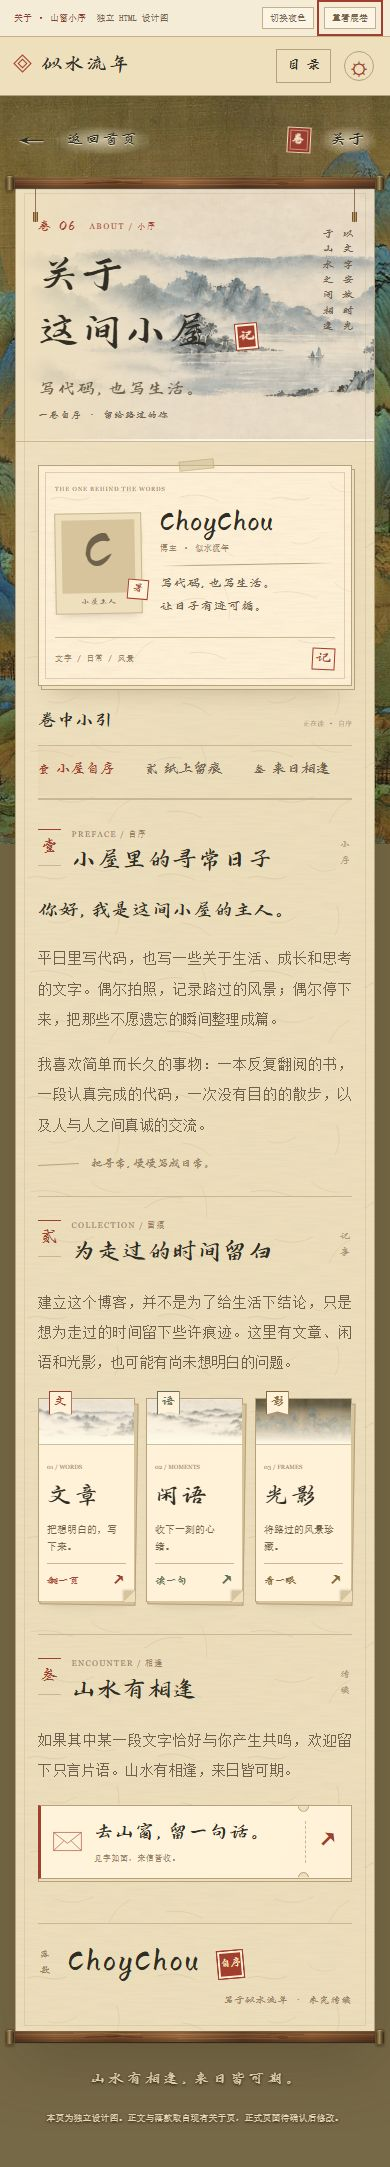
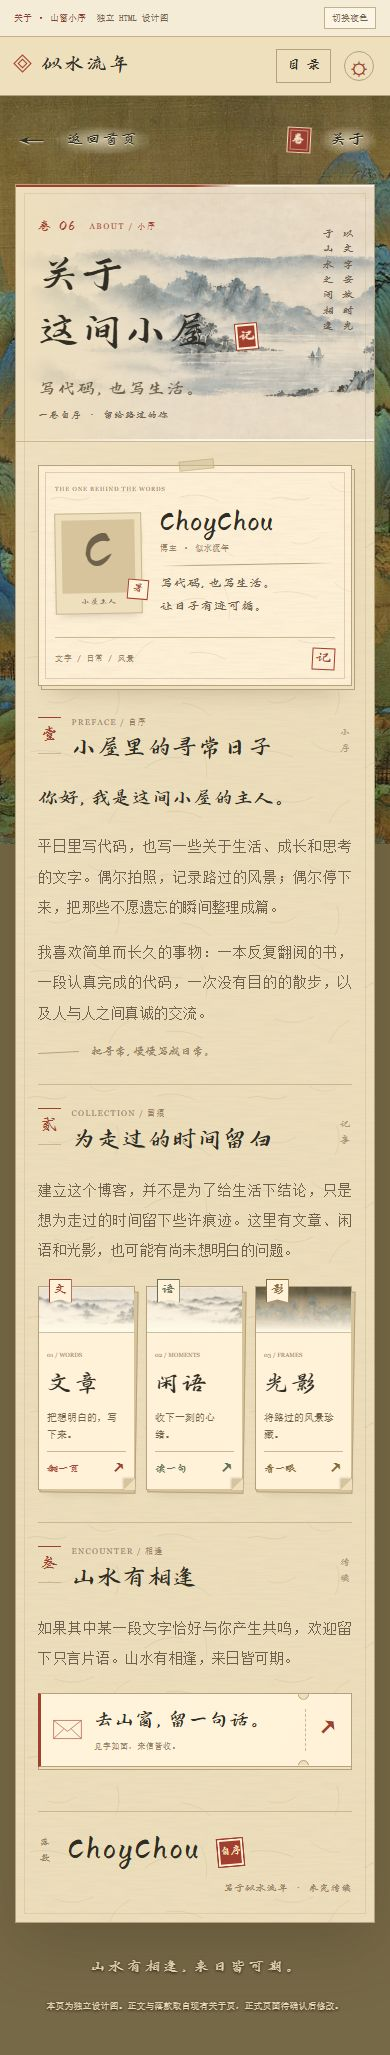
design(about): remove scroll rods and chapter index

Changed region(s): [[0.0308, 0.0, 1.0, 0.9966], [0.0, 0.1246, 0.0615, 0.4049], [0.3692, 0.0, 0.4308, 0.0311]]

diff --git a/effect-preview/about-window-preface-v1.css b/effect-preview/about-window-preface-v1.css
@@ -6,21 +6,17 @@ body::before {content:'';position:fixed;inset:0;background:var(--scene-overlay);
 .preview-tools {position:relative;z-index:10;display:flex;align-items:center;justify-content:space-between;gap:12px;flex-wrap:wrap;padding:8px 24px;color:#746248;background:#f5ecd8;border-bottom:1px solid #c4b18b;font:11px/1.8 var(--song);}.preview-tools b {color:#8d392b;font-weight:400;margin-right:12px;}.preview-tools>div {display:flex;gap:10px;}.preview-tools button {border:1px solid #c4b18b;padding:2px 9px;background:#fcf4e4;font-size:11px;}
 .site-nav {position:relative;z-index:5;display:flex;align-items:center;gap:24px;min-height:65px;padding:0 32px;background:var(--paper);border-bottom:1px solid var(--line);}.brand {font:23px var(--brush);letter-spacing:.14em;white-space:nowrap;}.brand::before {content:'';display:inline-block;width:11px;height:11px;border:1px solid var(--seal);transform:rotate(45deg);box-shadow:inset 0 0 0 2px var(--paper),inset 0 0 0 3px var(--seal);margin-right:13px;}.brand small {font:8px Georgia,serif;color:var(--faint);letter-spacing:.16em;margin-left:9px;}.site-nav nav {display:flex;align-items:center;gap:25px;margin:auto;font:16px var(--brush);letter-spacing:.12em;}.site-nav nav a {position:relative;padding:12px 0;}.site-nav [aria-current=page] {color:var(--seal);}.site-nav [aria-current=page]::after {content:'';position:absolute;bottom:4px;left:0;right:0;height:1px;background:var(--seal);transform:rotate(-4deg);}#nav-theme {height:33px;width:33px;border:1px solid var(--line);border-radius:50%;background:none;font-size:19px;color:var(--seal);}#nav-menu {display:none;border:1px solid var(--line);background:none;padding:7px 10px;font:14px var(--brush);}
 .page {width:calc(100% - 60px);max-width:1100px;margin:27px auto 0;}.back-link {display:flex;justify-content:space-between;align-items:center;margin-bottom:28px;padding:4px 6px;font:18px var(--brush);letter-spacing:.14em;color:var(--ink);text-shadow:0 1px 1px #f7eed6e6,0 0 18px #f7eed6b8;}.back-link>a,.back-link>span {min-height:44px;display:inline-flex;align-items:center;gap:12px;}.back-link>a>span:first-child {font:29px/1 var(--song);}.label {position:relative;padding:3px 7px;isolation:isolate;}.label::before {content:'';position:absolute;inset:0 -3px;z-index:-1;background:radial-gradient(ellipse,#faefd89e,transparent 78%);}.back-link a {transition:color .3s,transform .3s;}.back-link a:hover {color:var(--seal);transform:translateX(-2px);}.nav-seal {font:12px/1 var(--brush);font-style:normal;width:27px;height:29px;display:grid;place-items:center;background:#97392c;color:#f8e8ca;border:1px solid #eee0bf;box-shadow:inset 0 0 0 2px #97392c,inset 0 0 0 3px #eee0bf88;transform:rotate(3deg);}
-.scroll {position:relative;isolation:isolate;filter:drop-shadow(0 22px 32px var(--shadow));}.paper {position:relative;background:linear-gradient(115deg,#fff8e426,transparent 40%),var(--paper) url('../public/bg/guestbook-paper-fibers.svg');border:1px solid var(--line);}.paper::before {content:'';position:absolute;top:0;left:0;width:62%;height:2px;z-index:2;background:linear-gradient(90deg,var(--seal),var(--seal) 80%,transparent);}.paper::after {content:'';position:absolute;inset:8px;border:1px solid var(--fine);opacity:.45;pointer-events:none;}
-.rod {position:absolute;z-index:3;left:-9px;right:-9px;height:14px;border-radius:5px;background:linear-gradient(0deg,#261a135e,transparent 48%,#e7cb7f28 70%,#0004),url('wood-rod-grain.svg') center/100% 100%;box-shadow:0 1px 1px #1a120bc2,inset 0 1px #d9ba7c42;pointer-events:none;}.top-rod {top:-9px;}.bottom-rod {bottom:-9px;}.cap {position:absolute;top:-3px;width:13px;height:20px;border-radius:3px;background:linear-gradient(90deg,#493a24,#a78c59 45%,#6e5936 64%,#31281a);border:1px solid #604c2d;box-shadow:inset 0 1px #cab07e7d,0 2px 2px #1f160b47;}.cap.left {left:-5px;}.cap.right {right:-5px;}.cord {position:absolute;top:12px;width:1px;height:33px;background:#6b4732b0;}.cord.left {left:25px;}.cord.right {right:25px;}.cord::after {content:'';position:absolute;bottom:0;left:-2px;width:5px;height:10px;background:repeating-linear-gradient(90deg,#795434 0 1px,#b6955e 1px 2px);border-radius:0 0 1px 1px;}
+.paper-sheet {position:relative;isolation:isolate;filter:drop-shadow(0 22px 32px var(--shadow));}.paper {position:relative;background:linear-gradient(115deg,#fff8e426,transparent 40%),var(--paper) url('../public/bg/guestbook-paper-fibers.svg');border:1px solid var(--line);}.paper::before {content:'';position:absolute;top:0;left:0;width:62%;height:2px;z-index:2;background:linear-gradient(90deg,var(--seal),var(--seal) 80%,transparent);}.paper::after {content:'';position:absolute;inset:8px;border:1px solid var(--fine);opacity:.45;pointer-events:none;}
 .hero {position:relative;height:290px;overflow:hidden;border-bottom:1px solid var(--fine);}.hero-scene {position:absolute;inset:0;background:linear-gradient(90deg,var(--paper),transparent 44%),url('../public/bg/about-ink-banner.png') center 58%/cover no-repeat;opacity:.8;}.hero-copy {position:relative;z-index:1;padding:46px 49px 24px;}.eyebrow {margin:0;color:var(--faint);font:9px/1.6 Georgia,var(--song);letter-spacing:.2em;}.hero .eyebrow {display:flex;align-items:center;gap:21px;color:var(--seal);}.hero .eyebrow span:first-child {font:13px var(--brush);}.hero h1 {display:flex;align-items:baseline;gap:15px;margin:21px 0 18px;font:58px/1.2 var(--brush);font-weight:400;letter-spacing:.05em;}.seal {display:inline-grid;place-items:center;flex:none;width:31px;min-height:34px;vertical-align:middle;color:var(--card);background:var(--seal);border:1px solid var(--seal);box-shadow:inset 0 0 0 2px var(--card),inset 0 0 0 3px var(--seal);font:19px/1.2 var(--brush);font-style:normal;font-weight:400;letter-spacing:0;transform:rotate(-5deg);}.description {margin:0;font:23px/1.7 var(--brush);letter-spacing:.1em;color:var(--soft);}.hero-inscription {position:absolute;right:48px;top:39px;display:flex;gap:17px;align-items:flex-start;}.hero-inscription>span {writing-mode:vertical-rl;font:15px/2 var(--brush);letter-spacing:.23em;color:var(--soft);}.hero-inscription>i {margin-top:82px;padding:5px;color:var(--seal);border:1px solid var(--seal);font:12px/1.4 var(--brush);font-style:normal;transform:rotate(4deg);}.hero-foot {position:absolute;bottom:21px;left:49px;right:49px;display:flex;align-items:center;justify-content:space-between;color:var(--soft);font:11px var(--brush);letter-spacing:.12em;}.hero-foot span:last-child {font:8px Georgia,serif;letter-spacing:.18em;}
 .layout {display:grid;grid-template-columns:minmax(0,1fr) 226px;gap:46px;padding:36px 49px 25px;}.manuscript {min-width:0;}.chapter {position:relative;scroll-margin-top:25px;padding-bottom:28px;}.chapter+.chapter {padding-top:27px;border-top:1px solid var(--fine);}.chapter-head {display:flex;gap:14px;align-items:center;margin-bottom:20px;}.chapter-number {position:relative;align-self:flex-start;flex:none;padding:6px 3px;color:var(--seal);font:19px var(--brush);border-top:1px solid var(--seal);border-bottom:1px solid var(--fine);}.chapter-head .eyebrow {font-size:8px;letter-spacing:.16em;}.chapter-head h2 {font:29px/1.4 var(--brush);font-weight:400;letter-spacing:.06em;margin:4px 0 0;}.chapter-mark {margin-left:auto;color:var(--faint);font:12px var(--brush);writing-mode:vertical-rl;letter-spacing:.2em;opacity:.75;}.prose {font:16px/2.18 var(--song);letter-spacing:.035em;color:var(--soft);}.prose p {margin:0 0 17px;text-align:justify;}.prose p:last-child {margin-bottom:0;}.prose .greeting {font:23px/1.7 var(--brush);color:var(--ink);letter-spacing:.04em;text-align:left;margin-bottom:18px;}.margin-note {display:flex;align-items:center;gap:12px;margin-top:20px;color:var(--faint);font:13px var(--brush);}.margin-note>span {height:1px;width:41px;background:var(--line);transform:rotate(-3deg);}
-.margin {min-width:0;}.margin-sticky {position:sticky;top:26px;}.owner-card {position:relative;padding:21px 23px 18px;background:var(--card) url('../public/bg/guestbook-paper-fibers.svg');border:1px solid var(--line);box-shadow:3px 4px 0 -1px var(--paper),3px 4px 0 var(--line),0 12px 18px -15px var(--shadow);transform:rotate(.45deg);transition:transform .6s var(--ease),box-shadow .6s;isolation:isolate;}.owner-card::before {content:'';position:absolute;inset:6px;border:1px solid var(--fine);opacity:.6;pointer-events:none;}.owner-card:hover {transform:rotate(0) translateY(-2px);box-shadow:3px 4px 0 -1px var(--paper),3px 4px 0 var(--line),0 18px 22px -15px var(--shadow);}.owner-pin {position:absolute;top:-6px;left:40%;width:35px;height:10px;border:1px solid #a9977360;background:repeating-linear-gradient(90deg,#bfb48918 0 1px,transparent 1px 3px),#d1c3978c;transform:rotate(-6deg);}.owner-card>.eyebrow {font-size:6px;letter-spacing:.14em;text-align:center;margin-bottom:19px;}.portrait {position:relative;width:122px;margin:auto;padding:9px 9px 27px;transform:rotate(-4deg);border:1px solid var(--fine);background:var(--paper);box-shadow:0 6px 10px -6px var(--shadow);transition:transform .6s var(--ease);}.portrait img {position:absolute;top:9px;left:9px;display:block;width:100px;height:100px;object-fit:cover;filter:saturate(.65) sepia(.12);}.portrait-monogram {display:grid;place-items:center;width:100px;height:100px;background:var(--back);color:var(--soft);font:48px var(--brush);}.portrait.loaded .portrait-monogram {visibility:hidden;}.portrait-caption {position:absolute;bottom:5px;left:0;right:0;text-align:center;color:var(--soft);font:11px var(--brush);letter-spacing:.15em;}.portrait-seal {position:absolute;bottom:15px;right:-12px;font:15px var(--brush);border:1px solid var(--seal);color:var(--seal);padding:2px 4px;transform:rotate(6deg);background:var(--card);}.owner-card:hover .portrait {transform:rotate(-1deg);}.owner-card h2 {font:28px var(--brush);font-weight:400;text-align:center;margin:23px 0 3px;letter-spacing:.025em;}.owner-role {font:9px var(--song);letter-spacing:.08em;color:var(--faint);text-align:center;margin:0;}.owner-rule {height:1px;background:linear-gradient(90deg,transparent,var(--line) 20% 80%,transparent);margin:17px 0 15px;transform:rotate(-1deg);}.owner-motto {font:16px/1.8 var(--brush);letter-spacing:.06em;text-align:center;color:var(--soft);margin:0;}.owner-tail {display:flex;align-items:center;justify-content:space-between;padding-top:14px;margin-top:16px;border-top:1px solid var(--fine);font:8px var(--song);letter-spacing:.08em;color:var(--faint);}.owner-tail i {font:15px var(--brush);font-style:normal;border:1px solid var(--seal);color:var(--seal);padding:0 3px;transform:rotate(3deg);}
-.chapter-index {margin-top:32px;padding:0 2px;}.index-head {display:flex;align-items:baseline;justify-content:space-between;gap:8px;padding-bottom:13px;border-bottom:1px solid var(--fine);}.index-head h2 {font:20px var(--brush);font-weight:400;margin:0;}.index-head>span {font:7px var(--song);color:var(--faint);}.chapter-index>a {position:relative;display:flex;gap:13px;align-items:center;min-height:65px;border-bottom:1px solid var(--fine);color:var(--soft);transition:color .3s,background .3s;}.chapter-index>a>i {font:14px var(--brush);font-style:normal;flex:none;}.chapter-index>a>span {font:17px var(--brush);letter-spacing:.05em;}.chapter-index small {display:block;color:var(--faint);font:8px var(--song);letter-spacing:.025em;margin-top:5px;}.chapter-index>a>b {margin-left:auto;font:20px var(--brush);opacity:0;transform:translate(3px,-3px);transition:opacity .3s,transform .3s;}.chapter-index>a[aria-current=location],.chapter-index>a:hover {color:var(--seal);background:linear-gradient(90deg,var(--wash),transparent);}.chapter-index>a[aria-current=location]>b,.chapter-index>a:hover>b {opacity:1;transform:none;}.reading-line {height:2px;overflow:hidden;background:var(--fine);margin-top:13px;}.reading-line>span {display:block;width:0;height:100%;background:var(--seal);transition:width .25s linear;}
+.margin {min-width:0;}.owner-card {position:relative;padding:21px 23px 18px;background:var(--card) url('../public/bg/guestbook-paper-fibers.svg');border:1px solid var(--line);box-shadow:3px 4px 0 -1px var(--paper),3px 4px 0 var(--line),0 12px 18px -15px var(--shadow);transform:rotate(.45deg);transition:transform .6s var(--ease),box-shadow .6s;isolation:isolate;}.owner-card::before {content:'';position:absolute;inset:6px;border:1px solid var(--fine);opacity:.6;pointer-events:none;}.owner-card:hover {transform:rotate(0) translateY(-2px);box-shadow:3px 4px 0 -1px var(--paper),3px 4px 0 var(--line),0 18px 22px -15px var(--shadow);}.owner-pin {position:absolute;top:-6px;left:40%;width:35px;height:10px;border:1px solid #a9977360;background:repeating-linear-gradient(90deg,#bfb48918 0 1px,transparent 1px 3px),#d1c3978c;transform:rotate(-6deg);}.owner-card>.eyebrow {font-size:6px;letter-spacing:.14em;text-align:center;margin-bottom:19px;}.portrait {position:relative;width:122px;margin:auto;padding:9px 9px 27px;transform:rotate(-4deg);border:1px solid var(--fine);background:var(--paper);box-shadow:0 6px 10px -6px var(--shadow);transition:transform .6s var(--ease);}.portrait img {position:absolute;top:9px;left:9px;display:block;width:100px;height:100px;object-fit:cover;filter:saturate(.65) sepia(.12);}.portrait-monogram {display:grid;place-items:center;width:100px;height:100px;background:var(--back);color:var(--soft);font:48px var(--brush);}.portrait.loaded .portrait-monogram {visibility:hidden;}.portrait-caption {position:absolute;bottom:5px;left:0;right:0;text-align:center;color:var(--soft);font:11px var(--brush);letter-spacing:.15em;}.portrait-seal {position:absolute;bottom:15px;right:-12px;font:15px var(--brush);border:1px solid var(--seal);color:var(--seal);padding:2px 4px;transform:rotate(6deg);background:var(--card);}.owner-card:hover .portrait {transform:rotate(-1deg);}.owner-card h2 {font:28px var(--brush);font-weight:400;text-align:center;margin:23px 0 3px;letter-spacing:.025em;}.owner-role {font:9px var(--song);letter-spacing:.08em;color:var(--faint);text-align:center;margin:0;}.owner-rule {height:1px;background:linear-gradient(90deg,transparent,var(--line) 20% 80%,transparent);margin:17px 0 15px;transform:rotate(-1deg);}.owner-motto {font:16px/1.8 var(--brush);letter-spacing:.06em;text-align:center;color:var(--soft);margin:0;}.owner-tail {display:flex;align-items:center;justify-content:space-between;padding-top:14px;margin-top:16px;border-top:1px solid var(--fine);font:8px var(--song);letter-spacing:.08em;color:var(--faint);}.owner-tail i {font:15px var(--brush);font-style:normal;border:1px solid var(--seal);color:var(--seal);padding:0 3px;transform:rotate(3deg);}
 .collections {display:grid;grid-template-columns:repeat(3,minmax(0,1fr));gap:17px;margin:24px 0 8px;}.collection {position:relative;display:block;isolation:isolate;min-width:0;border:1px solid var(--line);background:var(--card);box-shadow:0 9px 12px -10px var(--shadow);transform:perspective(800px) rotateX(var(--rx,0deg)) rotateY(var(--ry,0deg));transition:transform .5s var(--ease),border-color .4s,box-shadow .4s;}.card-backing {position:absolute;inset:4px -3px -4px 2px;z-index:-1;background:var(--back);border:1px solid var(--line);transform:rotate(.9deg);transition:transform .5s;}.card-tab {position:absolute;top:-8px;left:15px;z-index:2;background:var(--card);border:1px solid var(--accent);color:var(--accent);padding:4px 5px;font:16px/1.2 var(--brush);clip-path:polygon(0 0,100% 0,100% 100%,50% calc(100% - 3px),0 100%);transition:background .4s,color .4s;}.card-scene {height:65px;position:relative;overflow:hidden;background-size:cover;background-position:center;filter:sepia(.2) saturate(.6);border-bottom:1px solid var(--fine);}.card-scene::after {content:'';position:absolute;inset:0;background:linear-gradient(0deg,var(--card),transparent 85%);transition:opacity .5s;}.scene-posts {background-image:url('../public/bg/about-ink-banner.png');}.scene-moments {background-image:url('../public/bg/guestbook-ink-banner.webp');}.scene-photos {background-image:url('../public/bg/qianli-bridge.jpg');background-position:center 61%;}.card-copy {position:relative;padding:8px 15px 12px;background:var(--card);}.card-copy small {font:7px Georgia,serif;letter-spacing:.1em;color:var(--faint);}.card-copy h3 {font:29px var(--brush);font-weight:400;margin:7px 0 8px;letter-spacing:.1em;}.card-copy p {font:9px/1.7 var(--song);color:var(--soft);margin:0;}.card-action {display:flex;align-items:center;justify-content:space-between;gap:8px;border-top:1px solid var(--fine);padding-top:8px;margin-top:13px;font:12px var(--brush);color:var(--accent);}.card-action b {font:18px var(--brush);font-weight:400;transition:transform .4s;}.card-fold {position:absolute;right:-1px;bottom:-1px;z-index:2;width:14px;height:14px;background:linear-gradient(135deg,var(--back) 47%,var(--paper) 50%);filter:drop-shadow(-1px -1px 1px var(--shadow));transition:width .5s,height .5s;}.collection:hover,.collection:focus-visible {transform:perspective(800px) translateY(-4px) rotateX(var(--rx,0deg)) rotateY(var(--ry,0deg));border-color:var(--accent);box-shadow:0 16px 18px -12px var(--shadow);}.collection:hover .card-backing,.collection:focus-visible .card-backing {transform:rotate(1.8deg) translateY(1px);}.collection:hover .card-tab,.collection:focus-visible .card-tab {background:var(--accent);color:var(--card);}.collection:hover .card-fold,.collection:focus-visible .card-fold {width:25px;height:25px;}.collection:hover .card-action b,.collection:focus-visible .card-action b {transform:translate(2px,-2px);}.collection:hover .card-scene::after {opacity:.65;}
 .meeting {padding-bottom:0;}.invitation {position:relative;display:flex;align-items:center;gap:17px;padding:19px 20px;margin-top:23px;border:1px solid var(--line);border-left:3px solid var(--seal);background:linear-gradient(120deg,#fff8e42b,transparent),var(--card);box-shadow:0 3px 0 -1px var(--paper),0 3px 0 var(--line);transition:transform .4s,box-shadow .4s;}.invitation::before,.invitation::after {content:'';position:absolute;right:57px;width:9px;height:9px;background:var(--paper);border:1px solid var(--line);border-radius:50%;}.invitation::before {top:-5px;clip-path:inset(50% 0 0);}.invitation::after {bottom:-5px;clip-path:inset(0 0 50%);}.invitation>svg {width:39px;flex:none;height:29px;fill:none;stroke:var(--seal);stroke-width:1;overflow:visible;}.flap {transform-origin:center top;transition:transform .55s var(--ease);}.invitation b {font:23px var(--brush);font-weight:400;letter-spacing:.045em;}.invitation small {display:block;font:9px var(--song);color:var(--faint);letter-spacing:.08em;margin-top:7px;}.invitation-arrow {align-self:stretch;display:grid;place-items:center;margin-left:auto;padding-left:17px;border-left:1px dashed var(--fine);color:var(--seal);font:24px var(--brush);transition:transform .4s;}.invitation:hover,.invitation:focus-visible {transform:translateY(-2px);box-shadow:0 3px 0 -1px var(--paper),0 3px 0 var(--line),0 13px 18px -15px var(--shadow);}.invitation:hover .flap,.invitation:focus-visible .flap {transform:scaleY(-.7);}.invitation:hover .invitation-arrow {transform:translate(2px,-2px);}
 .colophon {display:flex;align-items:center;justify-content:space-between;gap:20px;margin:0 49px;padding:25px 0 29px;border-top:1px solid var(--fine);color:var(--faint);}.colophon>div {display:flex;align-items:center;gap:16px;}.colophon-label {font:10px var(--brush);writing-mode:vertical-rl;letter-spacing:.2em;}.signature {font:30px var(--brush);letter-spacing:.07em;color:var(--ink);}.colophon .seal {width:27px;min-height:29px;font-size:11px;}.colophon>span {font:12px var(--brush);letter-spacing:.1em;}.site-footer {max-width:1100px;margin:40px auto 38px;text-align:center;padding:0 24px;color:#eadbb7;text-shadow:0 1px 3px #211607;}.site-footer p {font:17px var(--brush);letter-spacing:.24em;margin:0 0 14px;}.site-footer small {font:10px/1.8 var(--song);}.noscript-note {text-align:center;color:var(--soft);background:var(--card);padding:10px;}
-@keyframes paper-open {from{clip-path:inset(0 0 99% 0)}to{clip-path:inset(0)}}@keyframes rod-descend {from{transform:translateY(calc(-1 * var(--scroll-height,1300px) + 12px))}to{transform:none}}@keyframes ink-appear {from{opacity:0;transform:translateY(7px)}to{opacity:1;transform:none}}@keyframes stamp-in {from{opacity:0;transform:scale(1.3) rotate(-12deg)}70%{opacity:1;transform:scale(.96) rotate(-5deg)}to{transform:rotate(-5deg)}}
-.motion.opening .paper {animation:paper-open 1.3s var(--ease) both;}.motion.opening .bottom-rod {animation:rod-descend 1.3s var(--ease) both;}.motion.opening .hero-copy {animation:ink-appear .8s .35s var(--ease) both;}.motion.opening .hero .seal {animation:stamp-in .7s .7s var(--ease) both;}.motion.opening .owner-card {animation:ink-appear .7s .85s var(--ease) both;}.motion .chapter.arriving .chapter-head {animation:ink-appear .65s var(--ease) both;}.motion .chapter.arriving .prose {animation:ink-appear .8s .12s var(--ease) both;}.motion .chapter.arriving .collection {animation:ink-appear .7s var(--ease) both;}.motion .chapter.arriving .collection:nth-child(2) {animation-delay:.1s;}.motion .chapter.arriving .collection:nth-child(3) {animation-delay:.2s;}
 :root[data-theme=dark] .hero-scene {opacity:.42;filter:brightness(.9) sepia(.2);}:root[data-theme=dark] .back-link {text-shadow:none;}:root[data-theme=dark] .label::before {background:radial-gradient(ellipse,#4036238c,transparent 78%);}:root[data-theme=dark] .collection {--accent:#c4ad83!important;}:root[data-theme=dark] .portrait img {filter:saturate(.6) brightness(.85);}
 @media(min-width:1500px) {.hero h1 {font-size:62px;}}
 @media(max-width:1000px) {.site-nav nav {gap:16px;}.brand small {display:none;}.site-nav {padding-inline:24px;gap:17px;}.layout {gap:31px;padding:31px 36px 25px;grid-template-columns:minmax(0,1fr) 205px;}.owner-card {padding:20px 18px 17px;}.hero-copy {padding-inline:36px;}.hero h1 {font-size:50px;}.hero-inscription {right:34px;}.hero-foot {left:36px;right:36px;}.collections {gap:13px;}.card-copy {padding-inline:11px;}.card-copy p {font-size:8px;}.chapter-head h2 {font-size:26px;}.colophon {margin-inline:36px;}}
-@media(max-width:760px) {.site-nav {justify-content:space-between;min-height:59px;padding-inline:21px;}.brand {font-size:22px;}.site-nav nav {display:none;position:absolute;top:100%;left:0;right:0;padding:15px 24px;background:var(--paper);border-bottom:1px solid var(--line);grid-template-columns:repeat(4,1fr);text-align:center;gap:7px;}.site-nav nav[data-open] {display:grid;}#nav-menu {display:block;margin-left:auto;}#nav-theme {width:30px;height:30px;}.page {width:calc(100% - 44px);margin-top:21px;}.back-link {font-size:16px;margin-bottom:22px;padding-inline:2px;}.hero {height:260px;}.hero h1 {font-size:44px;gap:10px;letter-spacing:.025em;}.hero-copy {padding:40px 28px 22px;}.hero-inscription {right:25px;top:35px;gap:9px;}.hero-inscription>span {font-size:12px;}.hero-inscription>i {font-size:10px;margin-top:82px;}.description {font-size:20px;}.hero-foot {left:28px;right:28px;}.hero-foot span:last-child {font-size:6px;letter-spacing:.1em;}.layout {display:flex;flex-direction:column;gap:27px;padding:30px 28px 25px;}.margin {order:-1;}.margin-sticky {position:static;display:grid;grid-template-columns:1fr 1fr;gap:25px;align-items:start;}.owner-card {padding:18px 17px 14px;}.owner-card>.eyebrow {margin-bottom:13px;}.portrait {width:99px;padding:7px 7px 22px;}.portrait img {top:7px;left:7px;width:83px;height:83px;}.portrait-monogram {width:83px;height:83px;}.portrait-caption {font-size:9px;}.owner-card h2 {font-size:25px;margin-top:16px;}.owner-motto {font-size:14px;}.owner-rule {margin:13px 0;}.owner-tail {margin-top:12px;padding-top:11px;}.chapter-index {margin:0;padding-top:5px;}.index-head {flex-direction:column;gap:5px;}.chapter-index>a {min-height:68px;}.colophon {margin-inline:28px;}.prose {font-size:16px;}.collections {gap:17px;}.card-copy p {font-size:9px;}}
-@media(max-width:520px) {.preview-tools {padding:7px 14px;font-size:9px;gap:5px;}.preview-tools button {font-size:9px;padding:2px 7px;}.preview-tools b {margin-right:6px;}.page {width:calc(100% - 30px);margin-top:18px;}.site-nav {gap:13px;padding-inline:16px;}.brand {font-size:20px;}.back-link {margin-bottom:18px;}.nav-seal {width:24px;height:26px;}.rod {left:-5px;right:-5px;height:11px;}.top-rod {top:-7px;}.bottom-rod {bottom:-7px;}.cap {width:10px;height:16px;top:-2px;}.hero {height:257px;}.hero-copy {padding:34px 22px 20px;}.hero h1 {display:block;max-width:230px;font-size:43px;line-height:1.3;margin:16px 0 12px;letter-spacing:.03em;}.hero .title-tail {display:block;white-space:nowrap;}.hero h1 .seal {width:23px;min-height:27px;font-size:15px;vertical-align:5px;margin-left:5px;}.hero .eyebrow {gap:13px;font-size:8px;}.hero-inscription {right:17px;top:43px;gap:8px;}.hero-inscription>span {font-size:11px;line-height:1.8;letter-spacing:.12em;}.hero-inscription>i {display:none;}.description {font-size:18px;}.hero-foot {left:22px;right:22px;bottom:18px;font-size:10px;}.hero-foot span:last-child {display:none;}.layout {padding:25px 22px 20px;gap:29px;}.margin-sticky {grid-template-columns:minmax(0,1fr);gap:22px;}.owner-card {display:grid;grid-template-columns:91px minmax(0,1fr);column-gap:14px;padding:18px 16px 15px;transform:none;}.owner-card>.eyebrow {grid-column:1/-1;text-align:left;font-size:6px;margin-bottom:14px;}.portrait {grid-column:1;grid-row:2/6;width:87px;margin:0;padding:6px 6px 20px;align-self:center;}.portrait img {top:6px;left:6px;width:73px;height:73px;}.portrait-monogram {width:73px;height:73px;}.portrait-caption {font-size:8px;}.portrait-seal {right:-7px;font-size:11px;bottom:13px;}.owner-card h2 {grid-column:2;margin:1px 0 3px;text-align:left;font-size:25px;}.owner-role {grid-column:2;text-align:left;font-size:8px;}.owner-rule {grid-column:2;margin:11px 0 8px;}.owner-motto {grid-column:2;text-align:left;font-size:13px;line-height:1.8;}.owner-tail {grid-column:1/-1;margin-top:17px;padding-top:10px;}.owner-pin {left:45%;}.chapter-index {display:grid;grid-template-columns:repeat(3,minmax(0,1fr));column-gap:10px;padding:0;margin:0;}.index-head {grid-column:1/-1;flex-direction:row;padding-bottom:10px;}.index-head h2 {font-size:19px;}.chapter-index>a {gap:6px;min-height:49px;border-bottom:none;}.chapter-index>a>i {font-size:12px;}.chapter-index>a>span {font-size:15px;letter-spacing:0;}.chapter-index small,.chapter-index>a>b {display:none;}.reading-line {grid-column:1/-1;margin-top:3px;}.chapter-head {gap:11px;margin-bottom:15px;}.chapter-head h2 {font-size:25px;letter-spacing:.03em;}.chapter-number {font-size:17px;}.chapter-mark {font-size:10px;}.prose {font-size:14px;line-height:2.16;letter-spacing:.035em;}.prose .greeting {font-size:20px;margin-bottom:14px;}.prose p {margin-bottom:15px;}.chapter {padding-bottom:24px;}.chapter+.chapter {padding-top:23px;}.margin-note {font-size:12px;margin-top:17px;}.collections {gap:11px;margin-top:21px;}.card-tab {left:10px;font-size:13px;padding:3px 4px;}.card-scene {height:46px;}.card-copy {padding:7px 8px 9px;}.card-copy small {font-size:6px;letter-spacing:.015em;}.card-copy h3 {font-size:25px;margin:5px 0 7px;}.card-copy p {font-size:10px;line-height:1.65;min-height:33px;}.card-action {font-size:11px;margin-top:9px;padding-top:7px;gap:4px;}.card-action b {font-size:15px;}.card-fold {width:11px;height:11px;}.invitation {padding:15px 12px;gap:12px;margin-top:19px;}.invitation>svg {width:29px;height:23px;}.invitation b {font-size:20px;}.invitation small {font-size:8px;}.invitation-arrow {padding-left:11px;font-size:22px;}.invitation::before,.invitation::after {right:42px;}.colophon {margin-inline:22px;padding:23px 0 26px;flex-wrap:wrap;gap:12px;}.signature {font-size:27px;}.colophon>span {font-size:10px;margin-left:auto;}.site-footer {margin-top:35px;}.site-footer p {font-size:15px;}.site-footer small {font-size:9px;}}
+@media(max-width:760px) {.site-nav {justify-content:space-between;min-height:59px;padding-inline:21px;}.brand {font-size:22px;}.site-nav nav {display:none;position:absolute;top:100%;left:0;right:0;padding:15px 24px;background:var(--paper);border-bottom:1px solid var(--line);grid-template-columns:repeat(4,1fr);text-align:center;gap:7px;}.site-nav nav[data-open] {display:grid;}#nav-menu {display:block;margin-left:auto;}#nav-theme {width:30px;height:30px;}.page {width:calc(100% - 44px);margin-top:21px;}.back-link {font-size:16px;margin-bottom:22px;padding-inline:2px;}.hero {height:260px;}.hero h1 {font-size:44px;gap:10px;letter-spacing:.025em;}.hero-copy {padding:40px 28px 22px;}.hero-inscription {right:25px;top:35px;gap:9px;}.hero-inscription>span {font-size:12px;}.hero-inscription>i {font-size:10px;margin-top:82px;}.description {font-size:20px;}.hero-foot {left:28px;right:28px;}.hero-foot span:last-child {font-size:6px;letter-spacing:.1em;}.layout {display:flex;flex-direction:column;gap:27px;padding:30px 28px 25px;}.margin {order:-1;}.owner-card {padding:18px 17px 14px;}.owner-card>.eyebrow {margin-bottom:13px;}.portrait {width:99px;padding:7px 7px 22px;}.portrait img {top:7px;left:7px;width:83px;height:83px;}.portrait-monogram {width:83px;height:83px;}.portrait-caption {font-size:9px;}.owner-card h2 {font-size:25px;margin-top:16px;}.owner-motto {font-size:14px;}.owner-rule {margin:13px 0;}.owner-tail {margin-top:12px;padding-top:11px;}.colophon {margin-inline:28px;}.prose {font-size:16px;}.collections {gap:17px;}.card-copy p {font-size:9px;}.margin-content {max-width:420px;margin-inline:auto;}.owner-card {display:grid;grid-template-columns:91px minmax(0,1fr);column-gap:14px;padding:18px 16px 15px;transform:none;}.owner-card>.eyebrow {grid-column:1/-1;text-align:left;font-size:6px;margin-bottom:14px;}.portrait {grid-column:1;grid-row:2/6;width:87px;margin:0;padding:6px 6px 20px;align-self:center;}.portrait img {top:6px;left:6px;width:73px;height:73px;}.portrait-monogram {width:73px;height:73px;}.portrait-caption {font-size:8px;}.portrait-seal {right:-7px;font-size:11px;bottom:13px;}.owner-card h2 {grid-column:2;margin:1px 0 3px;text-align:left;font-size:25px;}.owner-role {grid-column:2;text-align:left;font-size:8px;}.owner-rule {grid-column:2;margin:11px 0 8px;}.owner-motto {grid-column:2;text-align:left;font-size:13px;line-height:1.8;}.owner-tail {grid-column:1/-1;margin-top:17px;padding-top:10px;}.owner-pin {left:45%;}}
+@media(max-width:520px) {.preview-tools {padding:7px 14px;font-size:9px;gap:5px;}.preview-tools button {font-size:9px;padding:2px 7px;}.preview-tools b {margin-right:6px;}.page {width:calc(100% - 30px);margin-top:18px;}.site-nav {gap:13px;padding-inline:16px;}.brand {font-size:20px;}.back-link {margin-bottom:18px;}.nav-seal {width:24px;height:26px;}.hero {height:257px;}.hero-copy {padding:34px 22px 20px;}.hero h1 {display:block;max-width:230px;font-size:43px;line-height:1.3;margin:16px 0 12px;letter-spacing:.03em;}.hero .title-tail {display:block;white-space:nowrap;}.hero h1 .seal {width:23px;min-height:27px;font-size:15px;vertical-align:5px;margin-left:5px;}.hero .eyebrow {gap:13px;font-size:8px;}.hero-inscription {right:17px;top:43px;gap:8px;}.hero-inscription>span {font-size:11px;line-height:1.8;letter-spacing:.12em;}.hero-inscription>i {display:none;}.description {font-size:18px;}.hero-foot {left:22px;right:22px;bottom:18px;font-size:10px;}.hero-foot span:last-child {display:none;}.layout {padding:25px 22px 20px;gap:29px;}.chapter-head {gap:11px;margin-bottom:15px;}.chapter-head h2 {font-size:25px;letter-spacing:.03em;}.chapter-number {font-size:17px;}.chapter-mark {font-size:10px;}.prose {font-size:14px;line-height:2.16;letter-spacing:.035em;}.prose .greeting {font-size:20px;margin-bottom:14px;}.prose p {margin-bottom:15px;}.chapter {padding-bottom:24px;}.chapter+.chapter {padding-top:23px;}.margin-note {font-size:12px;margin-top:17px;}.collections {gap:11px;margin-top:21px;}.card-tab {left:10px;font-size:13px;padding:3px 4px;}.card-scene {height:46px;}.card-copy {padding:7px 8px 9px;}.card-copy small {font-size:6px;letter-spacing:.015em;}.card-copy h3 {font-size:25px;margin:5px 0 7px;}.card-copy p {font-size:10px;line-height:1.65;min-height:33px;}.card-action {font-size:11px;margin-top:9px;padding-top:7px;gap:4px;}.card-action b {font-size:15px;}.card-fold {width:11px;height:11px;}.invitation {padding:15px 12px;gap:12px;margin-top:19px;}.invitation>svg {width:29px;height:23px;}.invitation b {font-size:20px;}.invitation small {font-size:8px;}.invitation-arrow {padding-left:11px;font-size:22px;}.invitation::before,.invitation::after {right:42px;}.colophon {margin-inline:22px;padding:23px 0 26px;flex-wrap:wrap;gap:12px;}.signature {font-size:27px;}.colophon>span {font-size:10px;margin-left:auto;}.site-footer {margin-top:35px;}.site-footer p {font-size:15px;}.site-footer small {font-size:9px;}}
 
 @media(prefers-reduced-motion:reduce) {html {scroll-behavior:auto;}.collection {transform:none;}*,*::before,*::after {animation:none!important;transition:none!important;}.collection:hover,.collection:focus-visible,.owner-card:hover,.invitation:hover,.invitation:focus-visible {transform:none;}.collection:hover .card-backing,.collection:focus-visible .card-backing {transform:rotate(.9deg);}}

diff --git a/effect-preview/about-window-preface-v1.html b/effect-preview/about-window-preface-v1.html
@@ -9,7 +9,7 @@
   <script src="about-window-preface-v1.js" defer></script>
 </head>
 <body>
-  <div class="preview-tools"><span><b>关于 · 山窗小序</b> 独立 HTML 设计图</span><div><button type="button" id="theme-button" aria-pressed="false">切换夜色</button><button type="button" id="replay-button">重看展卷</button></div></div>
+  <div class="preview-tools"><span><b>关于 · 山窗小序</b> 独立 HTML 设计图</span><div><button type="button" id="theme-button" aria-pressed="false">切换夜色</button></div></div>
   <header class="site-nav">
     <a class="brand" href="http://127.0.0.1:3015/">似水流年 <small>JOURNAL</small></a>
     <nav id="site-links" aria-label="站点导航"><a href="http://127.0.0.1:3015/">首页</a><a href="http://127.0.0.1:3015/posts">文章</a><a href="http://127.0.0.1:3015/moments">闲语</a><a href="http://127.0.0.1:3015/album">光影</a><a href="http://127.0.0.1:3015/timeline">时间轴</a><a href="http://127.0.0.1:3015/guestbook">留言</a><a href="#top" aria-current="page">关于</a></nav>
@@ -17,8 +17,7 @@
   </header>
   <div class="page" id="top">
     <nav class="back-link" aria-label="关于页导航"><a href="http://127.0.0.1:3015/"><span aria-hidden="true">←</span><span class="label">返回首页</span></a><span><i class="nav-seal" aria-hidden="true">卷</i><span class="label">关于</span></span></nav>
-    <main class="scroll" aria-label="关于这间小屋">
-      <span class="rod top-rod" aria-hidden="true"><i class="cap left"></i><i class="cap right"></i><i class="cord left"></i><i class="cord right"></i></span>
+    <main class="paper-sheet" aria-label="关于这间小屋">
       <div class="paper">
         <header class="hero">
           <div class="hero-scene" aria-hidden="true"></div>
@@ -48,19 +47,17 @@
               <a class="invitation" href="http://127.0.0.1:3015/guestbook"><svg viewBox="0 0 48 32" aria-hidden="true"><path d="M1 1H47V31H1Z M1 31L18 15M47 31L30 15"></path><path class="flap" d="M1 1L24 19L47 1"></path></svg><span><b>去山窗，留一句话。</b><small>见字如面，来信皆收。</small></span><span class="invitation-arrow" aria-hidden="true">↗</span></a>
             </section>
           </div>
-          <aside class="margin" aria-label="博主落款与卷中索引">
-            <div class="margin-sticky">
+          <aside class="margin" aria-label="博主落款">
+            <div class="margin-content">
               <div class="owner-card"><span class="owner-pin" aria-hidden="true"></span><p class="eyebrow">THE ONE BEHIND THE WORDS</p><div class="portrait"><span class="portrait-monogram" aria-hidden="true">C</span><img src="https://arpkshixrtqnsowrwbeh.supabase.co/storage/v1/object/public/avatars/admin/1785591615465-sihuy9.png" alt="博主头像" width="100" height="100" loading="lazy" referrerpolicy="no-referrer"><span class="portrait-caption">小屋主人</span><span class="portrait-seal" aria-hidden="true">署</span></div><h2>ChoyChou</h2><p class="owner-role">博主 · 似水流年</p><div class="owner-rule" aria-hidden="true"></div><p class="owner-motto">写代码，也写生活。<br>让日子有迹可循。</p><div class="owner-tail"><span>文字 / 日常 / 风景</span><i aria-hidden="true">记</i></div></div>
-              <nav class="chapter-index" aria-label="卷中索引"><div class="index-head"><h2>卷中小引</h2><span id="reading-status" aria-live="off">正在读 · 自序</span></div><a href="#preface" aria-current="location"><i>壹</i><span>小屋自序<small>寻常日子，认真过。</small></span><b aria-hidden="true">↙</b></a><a href="#traces"><i>贰</i><span>纸上留痕<small>文字、心绪与风景。</small></span><b aria-hidden="true">↙</b></a><a href="#encounter"><i>叁</i><span>来日相逢<small>这一卷，仍在续写。</small></span><b aria-hidden="true">↙</b></a><div class="reading-line" aria-hidden="true"><span id="reading-progress"></span></div></nav>
             </div>
           </aside>
         </div>
         <footer class="colophon"><div><span class="colophon-label">落款</span><span class="signature">ChoyChou</span><i class="seal" aria-hidden="true">自序</i></div><span>写于似水流年 · 未完待续</span></footer>
       </div>
-      <span class="rod bottom-rod" aria-hidden="true"><i class="cap left"></i><i class="cap right"></i></span>
     </main>
   </div>
   <footer class="site-footer"><p>山水有相逢，来日皆可期。</p><small>本页为独立设计图。正文与落款取自现有关于页，正式页面待确认后修改。</small></footer>
-  <noscript><p class="noscript-note">静态设计图仍可阅读，章节与页面入口可直接使用。</p></noscript>
+  <noscript><p class="noscript-note">静态设计图仍可阅读，页面入口可直接使用。</p></noscript>
 </body>
 </html>

diff --git a/effect-preview/about-window-preface-v1.js b/effect-preview/about-window-preface-v1.js
@@ -1,22 +1,6 @@
 (() => {
   const root = document.documentElement;
-  const scroll = document.querySelector('.scroll');
   const reduce = window.matchMedia('(prefers-reduced-motion: reduce)');
-  const chapters = [...document.querySelectorAll('.chapter')];
-  const links = [...document.querySelectorAll('.chapter-index>a')];
-  const headings = chapters.map(section => section.querySelector('h2'));
-  const chapterNames = ['自序', '留痕', '相逢'];
-  let openingTimer = 0;
-  function endOpening() { scroll.classList.remove('opening'); window.clearTimeout(openingTimer); }
-  function replay() {
-    endOpening();
-    scroll.style.setProperty('--scroll-height', `${scroll.offsetHeight}px`);
-    if (reduce.matches) return;
-    scroll.classList.add('motion');
-    void scroll.offsetHeight;
-    scroll.classList.add('opening');
-    openingTimer = window.setTimeout(endOpening, 1700);
-  }
   function themeToggle() {
     const dark = root.dataset.theme !== 'dark';
     root.dataset.theme = dark ? 'dark' : 'light';
@@ -29,10 +13,6 @@
   }
   document.getElementById('theme-button').addEventListener('click', themeToggle);
   document.getElementById('nav-theme').addEventListener('click', themeToggle);
-  document.getElementById('replay-button').addEventListener('click', () => {
-    window.scrollTo({top:0, behavior:'instant'});
-    replay();
-  });
   function closeMenu() {
     document.getElementById('site-links').removeAttribute('data-open');
     const button = document.getElementById('nav-menu');
@@ -46,58 +26,11 @@
     document.getElementById('site-links').toggleAttribute('data-open', open);
   });
   document.addEventListener('keydown', event => {
-    endOpening();
     if (event.key === 'Escape' && document.getElementById('site-links').hasAttribute('data-open')) {
       closeMenu();document.getElementById('nav-menu').focus();
     }
   });
-  document.addEventListener('pointerdown', endOpening, {passive:true});
   document.getElementById('site-links').addEventListener('click', closeMenu);
-  links.forEach((link,index) => link.addEventListener('click', event => {
-    event.preventDefault();endOpening();
-    history.replaceState(null,'',link.getAttribute('href'));
-    headings[index].focus({preventScroll:true});
-    chapters[index].scrollIntoView({block:'start',behavior:reduce.matches?'instant':'smooth'});
-  }));
-  const progress = document.getElementById('reading-progress');
-  let queued = false;
-  function readPosition() {
-    queued = false;
-    const rect = document.querySelector('.manuscript').getBoundingClientRect();
-    const range = Math.max(1,rect.height - innerHeight * .35);
-    const fraction = Math.max(0,Math.min(1,(innerHeight * .25 - rect.top)/range));
-    progress.style.width = `${fraction * 100}%`;
-    let index = 0;
-    chapters.forEach((section,i) => {if (section.getBoundingClientRect().top < innerHeight * .45) index = i;});
-    links.forEach((link,i) => {if (i===index) link.setAttribute('aria-current','location');else link.removeAttribute('aria-current');});
-    document.getElementById('reading-status').textContent = `正在读 · ${chapterNames[index]}`;
-  }
-  window.addEventListener('scroll', () => {
-    if (!queued) {queued=true;requestAnimationFrame(readPosition);}
-  }, {passive:true});
-  window.addEventListener('resize', () => {endOpening();readPosition();});
-  window.addEventListener('wheel',endOpening,{passive:true});
-  window.addEventListener('touchmove',endOpening,{passive:true});
-  reduce.addEventListener('change',()=>{
-    if(reduce.matches) {endOpening();scroll.classList.remove('motion');}
-    else scroll.classList.add('motion');
-  });
-  if ('IntersectionObserver' in window) {
-    const observer = new IntersectionObserver(entries => {
-      entries.forEach(entry => {
-        if (!entry.isIntersecting) return;
-        const section = entry.target;
-        if(!reduce.matches) section.classList.add('arriving');
-        observer.unobserve(section);
-      });
-    }, {threshold:.13});
-    chapters.forEach(section=>{
-      observer.observe(section);
-      section.addEventListener('animationend',event=>{
-        if(event.target.matches('.prose')) section.classList.remove('arriving');
-      });
-    });
-  }
   document.querySelectorAll('.collection').forEach(card=>{
     card.addEventListener('pointermove',event=>{
       if(reduce.matches || event.pointerType==='touch')return;
@@ -117,5 +50,4 @@
     avatar.parentElement.classList.remove('loaded');
     avatar.parentElement.classList.add('portrait-fallback');
   });
-  replay();readPosition();
 })();

diff --git a/effect-preview/about-window-preface-v1.md b/effect-preview/about-window-preface-v1.md
@@ -9,30 +9,29 @@
 | 部位 | 设计 |
 | --- | --- |
 | 顶部导航 | 复用最新确认的山水背景导航形式，左侧返回首页，右侧朱印与关于；不包整条纸面 |
-| 一卷小序 | 暖米色宣纸、细内框、木纹天杆与地杆、旧铜轴头及短丝绦；沿用既有水墨题头图片 |
+| 宣纸小序 | 暖米色宣纸、细内框与自然阴影；沿用既有水墨题头图片，已删除上下画轴、轴头和丝绦 |
 | 卷首 | 保留“关于这间小屋 / 写代码，也写生活”，加右侧竖题、朱印与卷首落款；手机将标题分为“关于 / 这间小屋” |
 | 正文 | “小屋里的寻常日子 / 为走过的时间留白 / 山水有相逢”三段，原有正文完整保留；章签、细分隔与边注形成阅读节奏 |
 | 页边落款 | 博主头像放入有纸边的照片，配纤维胶贴、署字小印、昵称和原有角色；页面底部仍保留署名 |
-| 卷中索引 | 桌面随阅读停在页边；章签同步当前段落，细朱线提示阅读位置，点击后焦点到达章节标题 |
 | 三张小笺 | 文章、闲语、光影三个正式页面入口。统一暖米纸，配不同景片、文语影题签、背纸、折角与细色线；没有虚构数量或文章数据 |
 | 相逢收尾 | 信封、敬候文字与可翻动上盖组成留言入口，指向现有 `/guestbook` |
 
-桌面纸卷最大 1100px，正文与 226px 页边并列；760px 以下落款与索引移到正文前，520px 以下落款改为横向小笺、索引排成一行。纸张长度由内容决定，没有固定空白下半页。
+桌面纸面最大 1100px，正文与 226px 页边落款并列；落款按正常文档流排列，取消悬浮索引、章节选择和阅读进度。760px 以下落款移到正文前，以横向小笺呈现。纸张长度由内容决定，没有固定空白下半页。
 
 ## 动效与操作
 
-- 进入页面时纸卷在约 1.3 秒内向下舒展，地杆随纸面下移，标题落墨、朱印轻落；点击、按键、滚轮或触屏滑动可立即落到终态。查看工具可重播。
-- 段落首次进入视野时章题与正文依次显出。纸笺悬停或键盘聚焦时抬升、显色、背纸错开、折角展开；桌面指针带来克制的轻倾。
+- 页面直接呈现完整内容，删除展卷、标题入场、章节渐入及重播按钮。
+- 纸笺悬停或键盘聚焦时抬升、显色、背纸错开、折角展开；桌面指针带来克制的轻倾。
 - 头像照片在落款笺悬停时轻回正；留言信封上盖翻起，箭头轻移。夜色采用暖褐纸、浅墨与淡朱。
 - 顶部工具与站内昼夜按钮同步状态。窄屏目录支持展开、Escape 关闭及焦点恢复。
-- 减少动态效果时停用展卷、入场、倾斜与位移，保留静态设计及功能。无 JavaScript 时正文、原生章节锚点和页面入口仍可阅读与使用。
+- 减少动态效果时停用倾斜与位移，保留静态设计及功能。无 JavaScript 时正文和页面入口仍可阅读与使用。
 - 头像使用现有公开资源，不额外下载；尚未加载或不可达时以昵称首字母作纸面落款，避免空白照片框。
 
 ## 验证
 
 - 日夜两色 × 1440、1280、1024、768、600、520、485、390、360px 共 18 组：根文档与纸面、落款、小笺、留言入口、标题均未溢出。
-- 五段原文、三个入口、ID 唯一性、中文标题换行、章节跳转与焦点、索引更新、手机目录与 Escape 焦点恢复通过。
-- 展卷重播/跳过、悬停题签显色/折角、减少动态效果、头像失败兜底、无脚本阅读通过；浏览器未捕获脚本异常。
+- 五段原文、三个入口、ID 唯一性、中文标题换行、手机目录与 Escape 焦点恢复通过；确认索引、进度、画轴、重播及入场动画均已移除。
+- 悬停题签显色/折角、减少动态效果、头像失败兜底、无脚本阅读通过；浏览器未捕获脚本异常。
 - `node --check` 与 `npx tsc --noEmit` 通过；`npx next build` 成功生成 37 个页面，期间有 Supabase 网络连接失败日志，命令退出 0。
 - `npx vitest run`：68 个文件、333 个断言通过，但有 5 个既有 `DailyQuote.tsx:105` 的动画 API 未处理异常，命令退出 1；不将全量测试标记为通过。
 
